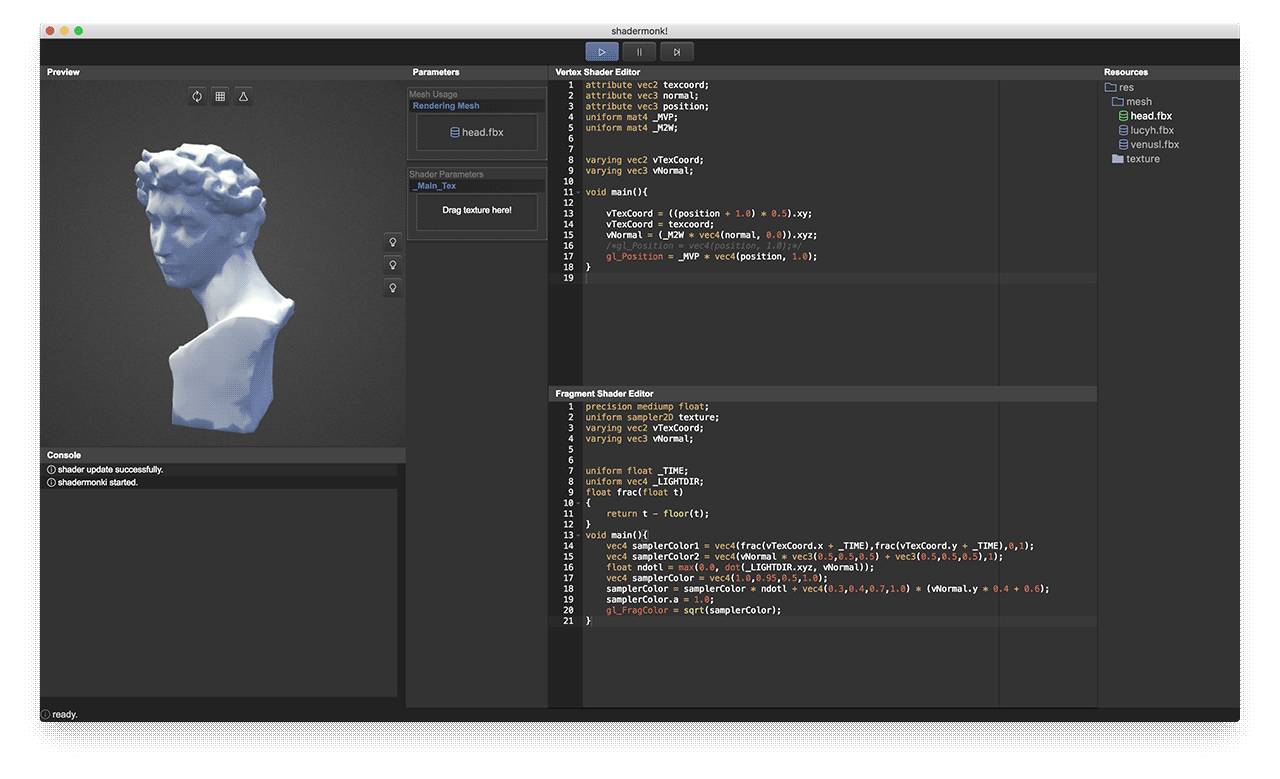
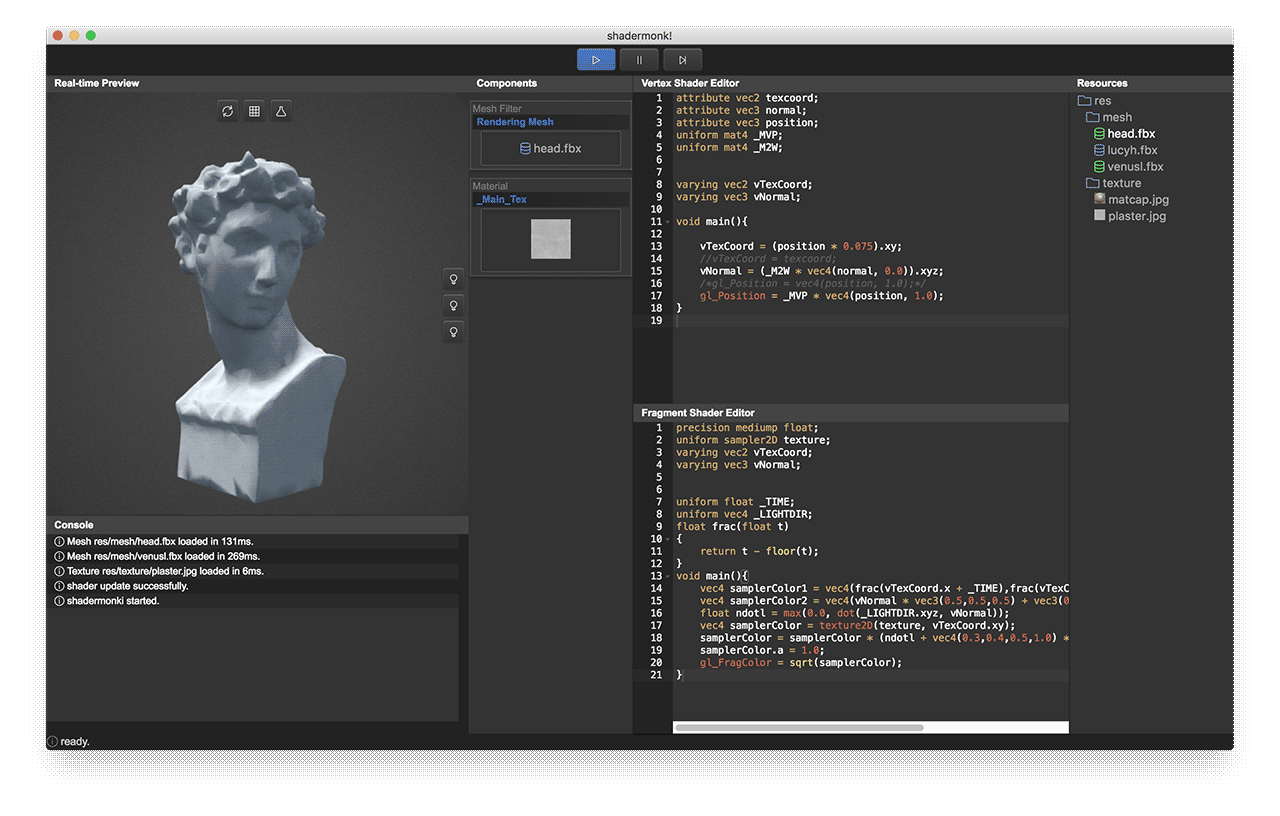
add texture loading method, affect on mesh, add parameter panel prototype

Changed region(s): [[0.0312, 0.0308, 0.9688, 0.9551], [0.4375, 0.4929, 0.8438, 0.8318], [0.1562, 0.1232, 0.2188, 0.154]]

diff --git a/renderer.js b/renderer.js
@@ -18,6 +18,13 @@ window.onload = function(){
     this.editor_vs.session.setMode(new GLSLMode());
     this.editor_vs.setValue(vsp);
     this.editor_vs.clearSelection();
+
+    this.editor_vs.getSession().on('change', function(e) {
+        // e.type, etc
+        vsp = window.editor_vs.getValue();
+        window.parent.renderer.updateShader(vsp, fsp);
+    });
+
     this.editor_vs.commands.addCommand({
         name: 'save to',
         bindKey: {win: 'Ctrl-S',  mac: 'Command-S'},
@@ -102,9 +109,7 @@ window.onload = function(){
 
                 // load mesh here
                 resobj.load();
-
                 resPanel.refresh();
-
                 window.parent.renderer.updateMesh(resobj);
             }
 
@@ -113,6 +118,40 @@ window.onload = function(){
     }
 
     holder.ondragover = function (ev) {
+        ev.preventDefault();
+    }
+
+    let imgholder = bid('image-holder');
+    imgholder.ondrop = function( ev ) {
+
+        ev.preventDefault();
+        var filetoken = ev.dataTransfer.getData("restoken");
+
+        let type = 0;
+        let resobj = resMgr.gResmgr.get_res(filetoken);
+        if( resobj !== null )
+        {
+            type = resobj.get_type();
+
+            if(type === resMgr.RESTYPE.TEXTURE)
+            {
+                //create a mesh element
+                let _ret = resPanel.create_res_showobj(0, filetoken, type, false);
+
+                resPanel.clean_folder(this);
+                this.appendChild(_ret.obj_container);
+
+                // load mesh here
+                resobj.load();
+                resPanel.refresh();
+                window.parent.renderer.updateTexure(resobj);
+            }
+
+        }
+
+    }
+
+    imgholder.ondragover = function (ev) {
         ev.preventDefault();
     }
 
@@ -174,8 +213,8 @@ varying vec3 vNormal;\r\
 \r\
 void main(){\r\
 \r\
-    vTexCoord = ((position + 1.0) * 0.5).xy;\r\
-    vTexCoord = texcoord;\r\
+    vTexCoord = (position * 0.075).xy;\r\
+    //vTexCoord = texcoord;\r\
     vNormal = (_M2W * vec4(normal, 0.0)).xyz;\r\
     /*gl_Position = vec4(position, 1.0);*/\r\
     gl_Position = _MVP * vec4(position, 1.0);\r\
@@ -198,8 +237,8 @@ void main(){\r\
     vec4 samplerColor1 = vec4(frac(vTexCoord.x + _TIME),frac(vTexCoord.y + _TIME),0,1);\r\
     vec4 samplerColor2 = vec4(vNormal * vec3(0.5,0.5,0.5) + vec3(0.5,0.5,0.5),1);\r\
     float ndotl = max(0.0, dot(_LIGHTDIR.xyz, vNormal));\r\
-    vec4 samplerColor = vec4(1.0,0.95,0.5,1.0);\r\
-    samplerColor = samplerColor * ndotl + vec4(0.3,0.4,0.7,1.0) * (vNormal.y * 0.4 + 0.6);\r\
+    vec4 samplerColor = texture2D(texture, vTexCoord.xy);\r\
+    samplerColor = samplerColor * (ndotl + vec4(0.3,0.4,0.5,1.0) * (vNormal.y * 0.4 + 0.6));\r\
     samplerColor.a = 1.0;\r\
     gl_FragColor = sqrt(samplerColor);\r\
 }\

diff --git a/lib/gk-respanel.js b/lib/gk-respanel.js
@@ -87,7 +87,7 @@ respanel.refresh = function () {
 //console.info(resFolderStruct);
 // dispatch res to resouce
 
-respanel.create_res_showobj = function(depth, filetoken, type) {
+respanel.create_res_showobj = function(depth, filetoken, type, thumbMode = true) {
 
     var obj_container = document.createElement('div');
     // indent
@@ -99,13 +99,38 @@ respanel.create_res_showobj = function(depth, filetoken, type) {
     obj_button.id = 'btn-' + filetoken;
 
     // create icon
-    var log_icon = document.createElement('i');
+    var log_icon = null;
+
     switch (type) {
         case resMgr.RESTYPE.MESH:
+            log_icon = document.createElement('i');
             log_icon.className = 'btm bt-database';
             break;
         case resMgr.RESTYPE.TEXTURE:
-            log_icon.className = 'bts bt-photo';
+
+            // load resmgt
+            let res = resMgr.gResmgr.get_res(filetoken);
+            if(res !== null)
+            {
+                log_icon = document.createElement('img');
+                log_icon.src = res.filetoken;
+                if(thumbMode)
+                {
+                    log_icon.width = '13';
+                    log_icon.height = '13';
+                }
+                else
+                {
+                    log_icon.width = '48';
+                    log_icon.height = '48';
+                }
+
+            }
+            else
+            {
+                log_icon = document.createElement('i');
+                log_icon.className = 'bts bt-photo';
+            }
             break;
     }
     log_icon.style.color = '#8af';
@@ -115,7 +140,10 @@ respanel.create_res_showobj = function(depth, filetoken, type) {
 
     // compose
     obj_button.appendChild(log_icon);
-    obj_button.appendChild(log_text);
+    if(thumbMode)
+    {
+        obj_button.appendChild(log_text);
+    }
     obj_container.appendChild(obj_button);
 
     // return

diff --git a/lib/gk-glwrap.js b/lib/gk-glwrap.js
@@ -107,6 +107,14 @@ glw.set_uniform4x4fv = function(name, fvalue)
     }
 };
 
+glw.bind_texture = function( texobj, unit )
+{
+    if(texobj !== null)
+    {
+        this.gl.activeTexture(33984 + unit);
+        this.gl.bindTexture(this.gl.TEXTURE_2D, texobj);
+    }
+}
 
 /// mesh obj
 glw.meshObject = function(webglContext){
@@ -316,6 +324,24 @@ glw._create_ibo = function(data){
     this.gl.bufferData(this.gl.ELEMENT_ARRAY_BUFFER, new Int16Array(data), this.gl.STATIC_DRAW);
     this.gl.bindBuffer(this.gl.ELEMENT_ARRAY_BUFFER, null);
     return ibo;
+}
+
+// gen & bind texture
+glw._create_bind_texture = function(data){
+
+    let gl = this.gl;
+
+    let buffer = gl.createTexture();
+    gl.bindTexture(gl.TEXTURE_2D, buffer);
+    gl.texImage2D(gl.TEXTURE_2D, 0, gl.RGBA, gl.RGBA, gl.UNSIGNED_BYTE, data);
+    gl.generateMipmap(gl.TEXTURE_2D);
+    gl.texParameteri(gl.TEXTURE_2D, gl.TEXTURE_MIN_FILTER, gl.LINEAR);
+    gl.texParameteri(gl.TEXTURE_2D, gl.TEXTURE_MAG_FILTER, gl.LINEAR);
+    gl.texParameteri(gl.TEXTURE_2D, gl.TEXTURE_WRAP_S, gl.REPEAT);
+    gl.texParameteri(gl.TEXTURE_2D, gl.TEXTURE_WRAP_T, gl.REPEAT);
+    gl.bindTexture(gl.TEXTURE_2D, null);
+
+    return buffer;
 }
 
 // dp

diff --git a/index.html b/index.html
@@ -29,7 +29,7 @@
     <div id="left">
         <div class="canvas-frame">
             <div class="title-bar">
-                Preview
+                Real-time Preview
             </div>
             <canvas id="canvas" class='interactive-frame' width="512" height="512"></canvas>
 
@@ -56,11 +56,11 @@
 
     <div id="parameter-bar">
         <div class="title-bar">
-            Parameters
+            Components
         </div>
         <div id="parameter-container" class="obj-container">
             <div class="parameter-group">
-                Mesh Usage
+                Mesh Filter
                 <div class="droped-title">
                     Rendering Mesh
                 </div>
@@ -70,11 +70,11 @@
             </div>
 
             <div class="parameter-group">
-                Shader Parameters
+                Material
             <div class="droped-title">
                 _Main_Tex
             </div>
-            <div class="droped-container">
+            <div id="image-holder" class="droped-container">
                 Drag texture here!
             </div>
             </div>

diff --git a/lib/gk-render.js b/lib/gk-render.js
@@ -12,6 +12,8 @@ renderer.bgProgram = null;
 
 renderer.quadMesh = null;
 renderer.quadProgram = null;
+renderer.quadTexture = null;
+
 
 renderer.timer = 0;
 renderer.modelrotation = 0;
@@ -91,8 +93,6 @@ renderer.render = function() {
 
     var relDelta = mouse.frameUpdate();
 
-
-
     this.modelrotation += relDelta.x * 0.005;
 
     if(this.autoRotate)
@@ -132,6 +132,11 @@ renderer.render = function() {
     lightDir = math.vec3.normalize(lightDir);
     glw.set_uniform4f("_LIGHTDIR", lightDir);
 
+    if( this.quadTexture !== null && this.quadTexture.gltextureobject != null )
+    {
+        glw.bind_texture( this.quadTexture.gltextureobject, 0 );
+    }
+
     // mesh draw
     if(this.quadMesh != null && this.quadMesh.glmeshobject != null)
     {
@@ -152,6 +157,13 @@ renderer.updateMesh = function ( meshresobj ) {
     if( meshresobj !== null )
     {
         this.quadMesh = meshresobj;
+    }
+}
+
+renderer.updateTexure = function ( texobj ) {
+    if( texobj !== null )
+    {
+        this.quadTexture = texobj;
     }
 }
 

diff --git a/lib/gk-resmgr.js b/lib/gk-resmgr.js
@@ -74,6 +74,20 @@ class TextureResObj extends BaseResObj {
 
     loadimpl() {
 
+        let ref = this;
+
+        let img = new Image();
+        this.image = img;
+        let timestamp = Date.now();
+
+        img.onload = function () {
+            ref.gltextureobject = glw._create_bind_texture(img);
+            let timeelapsed = Date.now() - timestamp;
+            logger.info('Texture ' + ref.filetoken + ' loaded in ' + timeelapsed + 'ms.');
+        };
+
+        // trigger loading
+        img.src = this.filetoken;
     }
 
     unloadimpl() {

diff --git a/style.css b/style.css
@@ -292,9 +292,9 @@ html, body {
 
 .droped-container {
 
-    padding: 15px 5px;
-    margin: 2px 10px 10px 10px;
-    height: 20px;
+    padding: 10px 5px;
+    margin: 2px 10px 2px 10px;
+    min-height: 20px;
     border: 1px dotted #777;
     border-radius: 2px;
 
